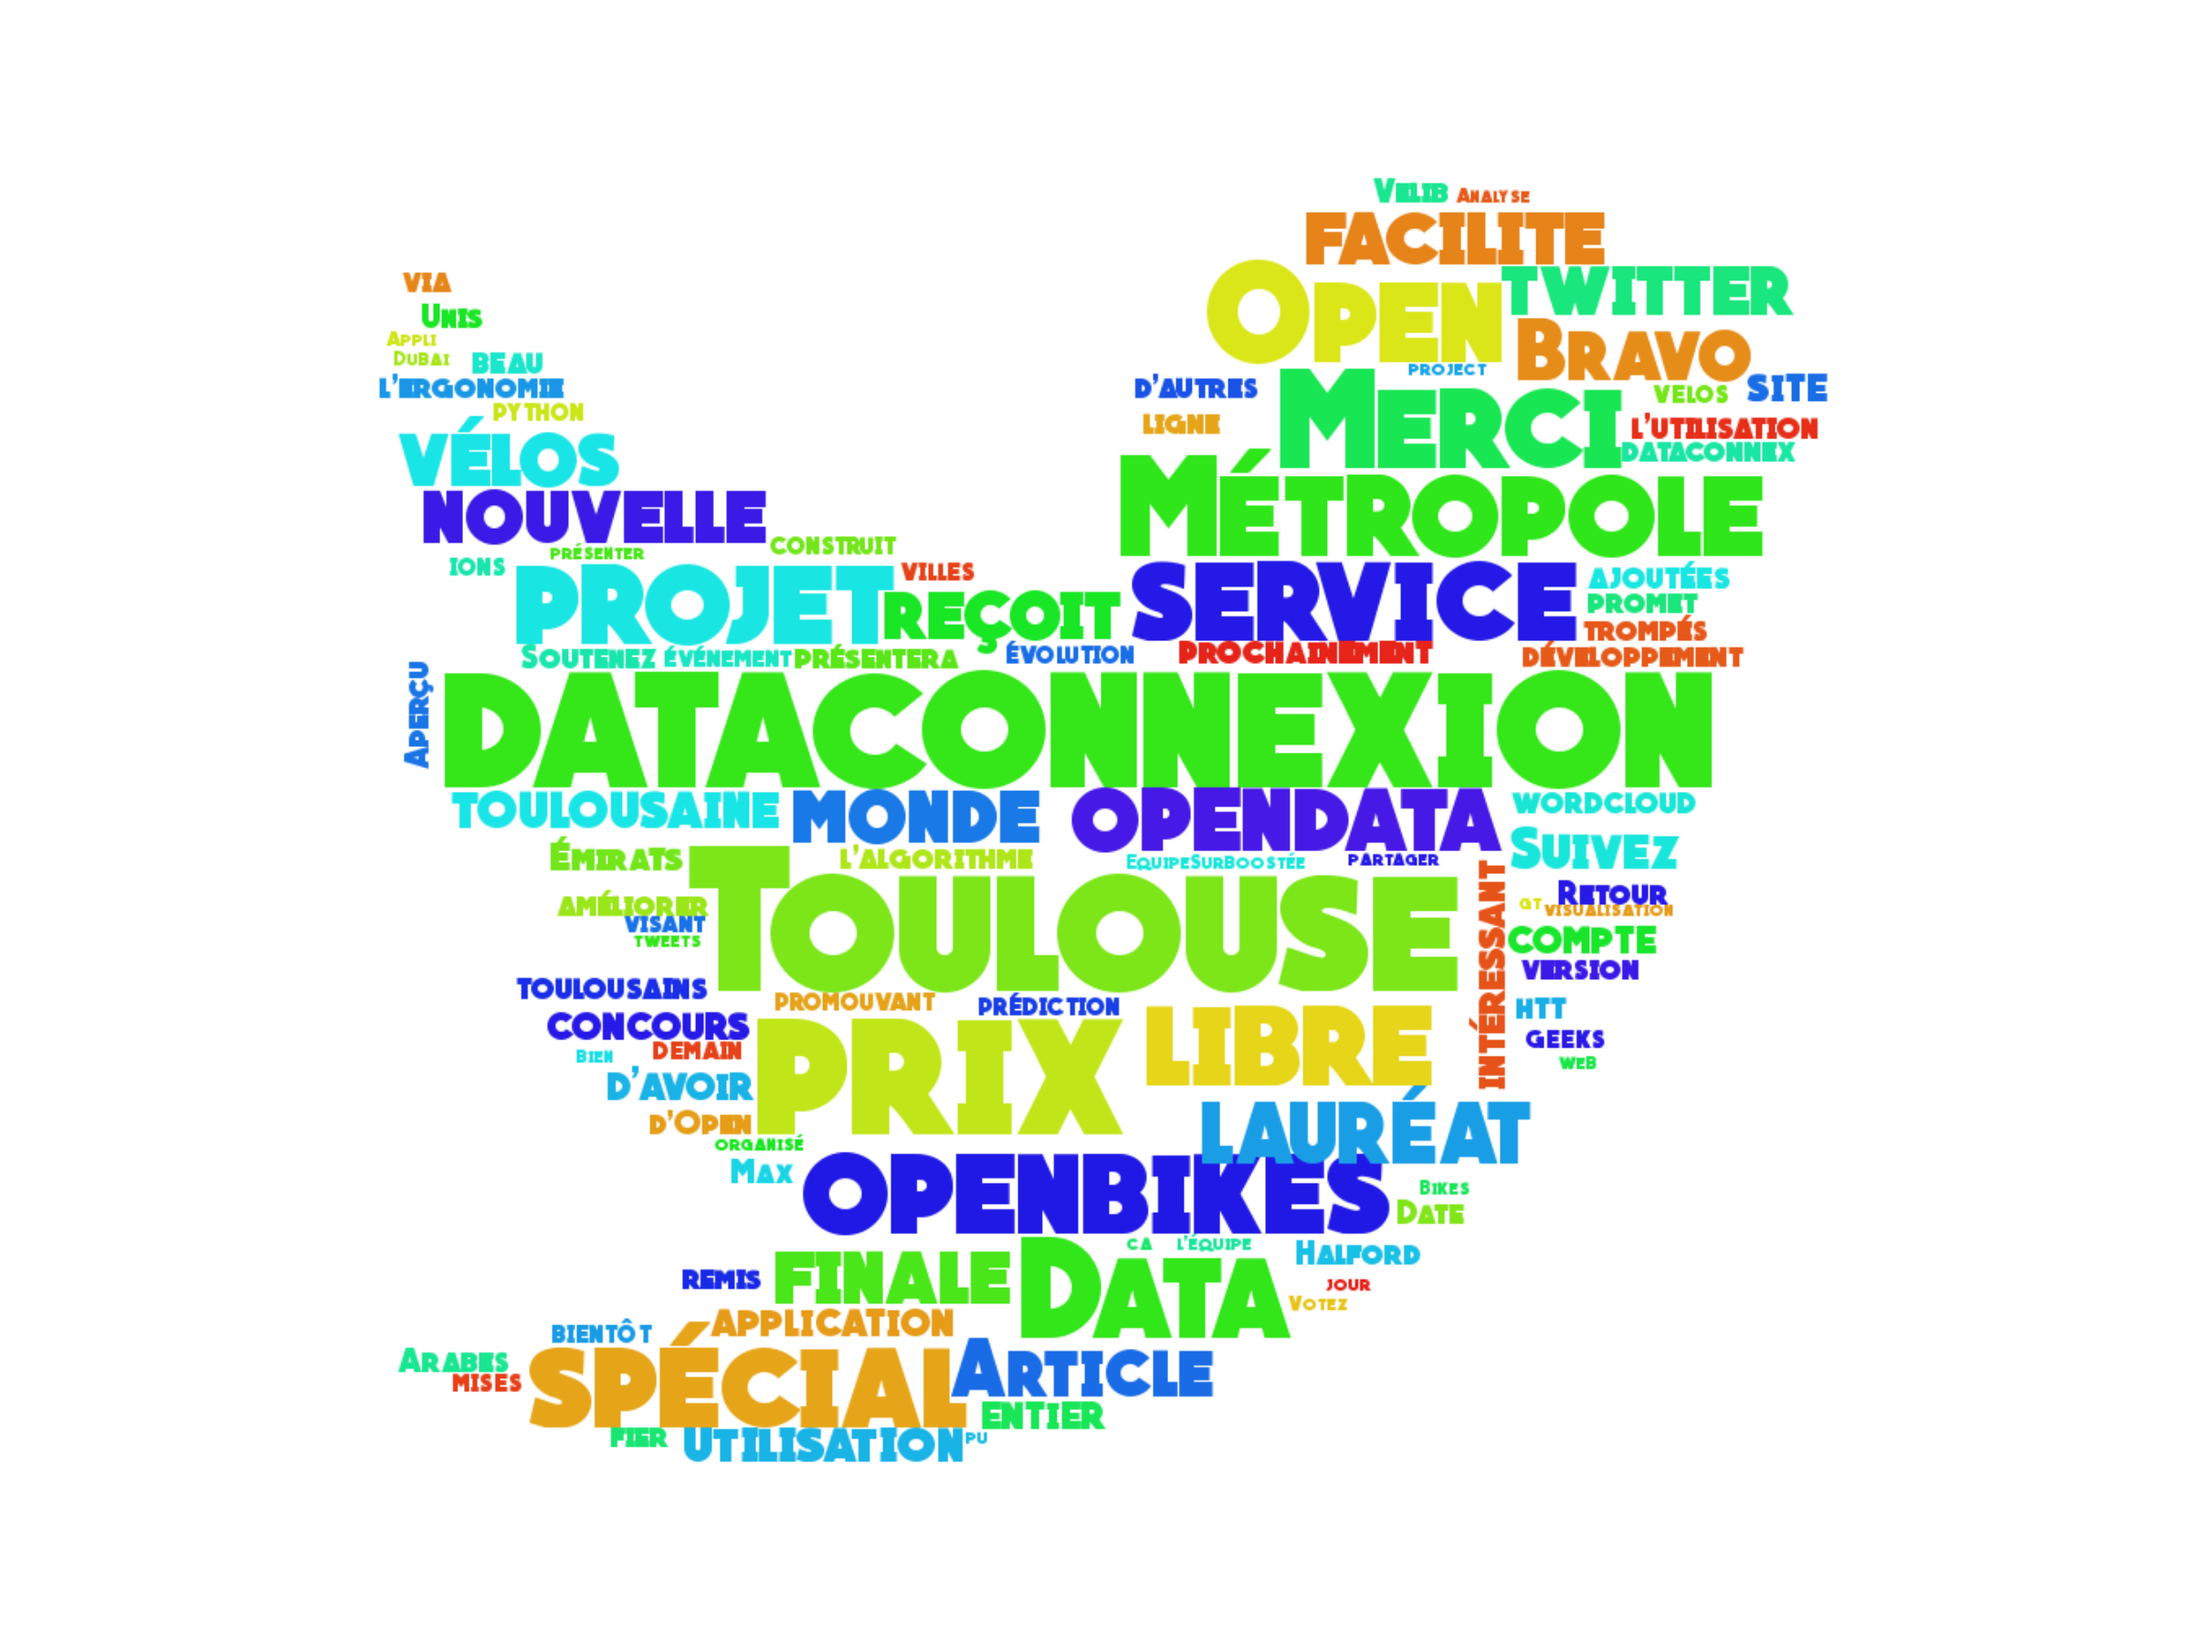
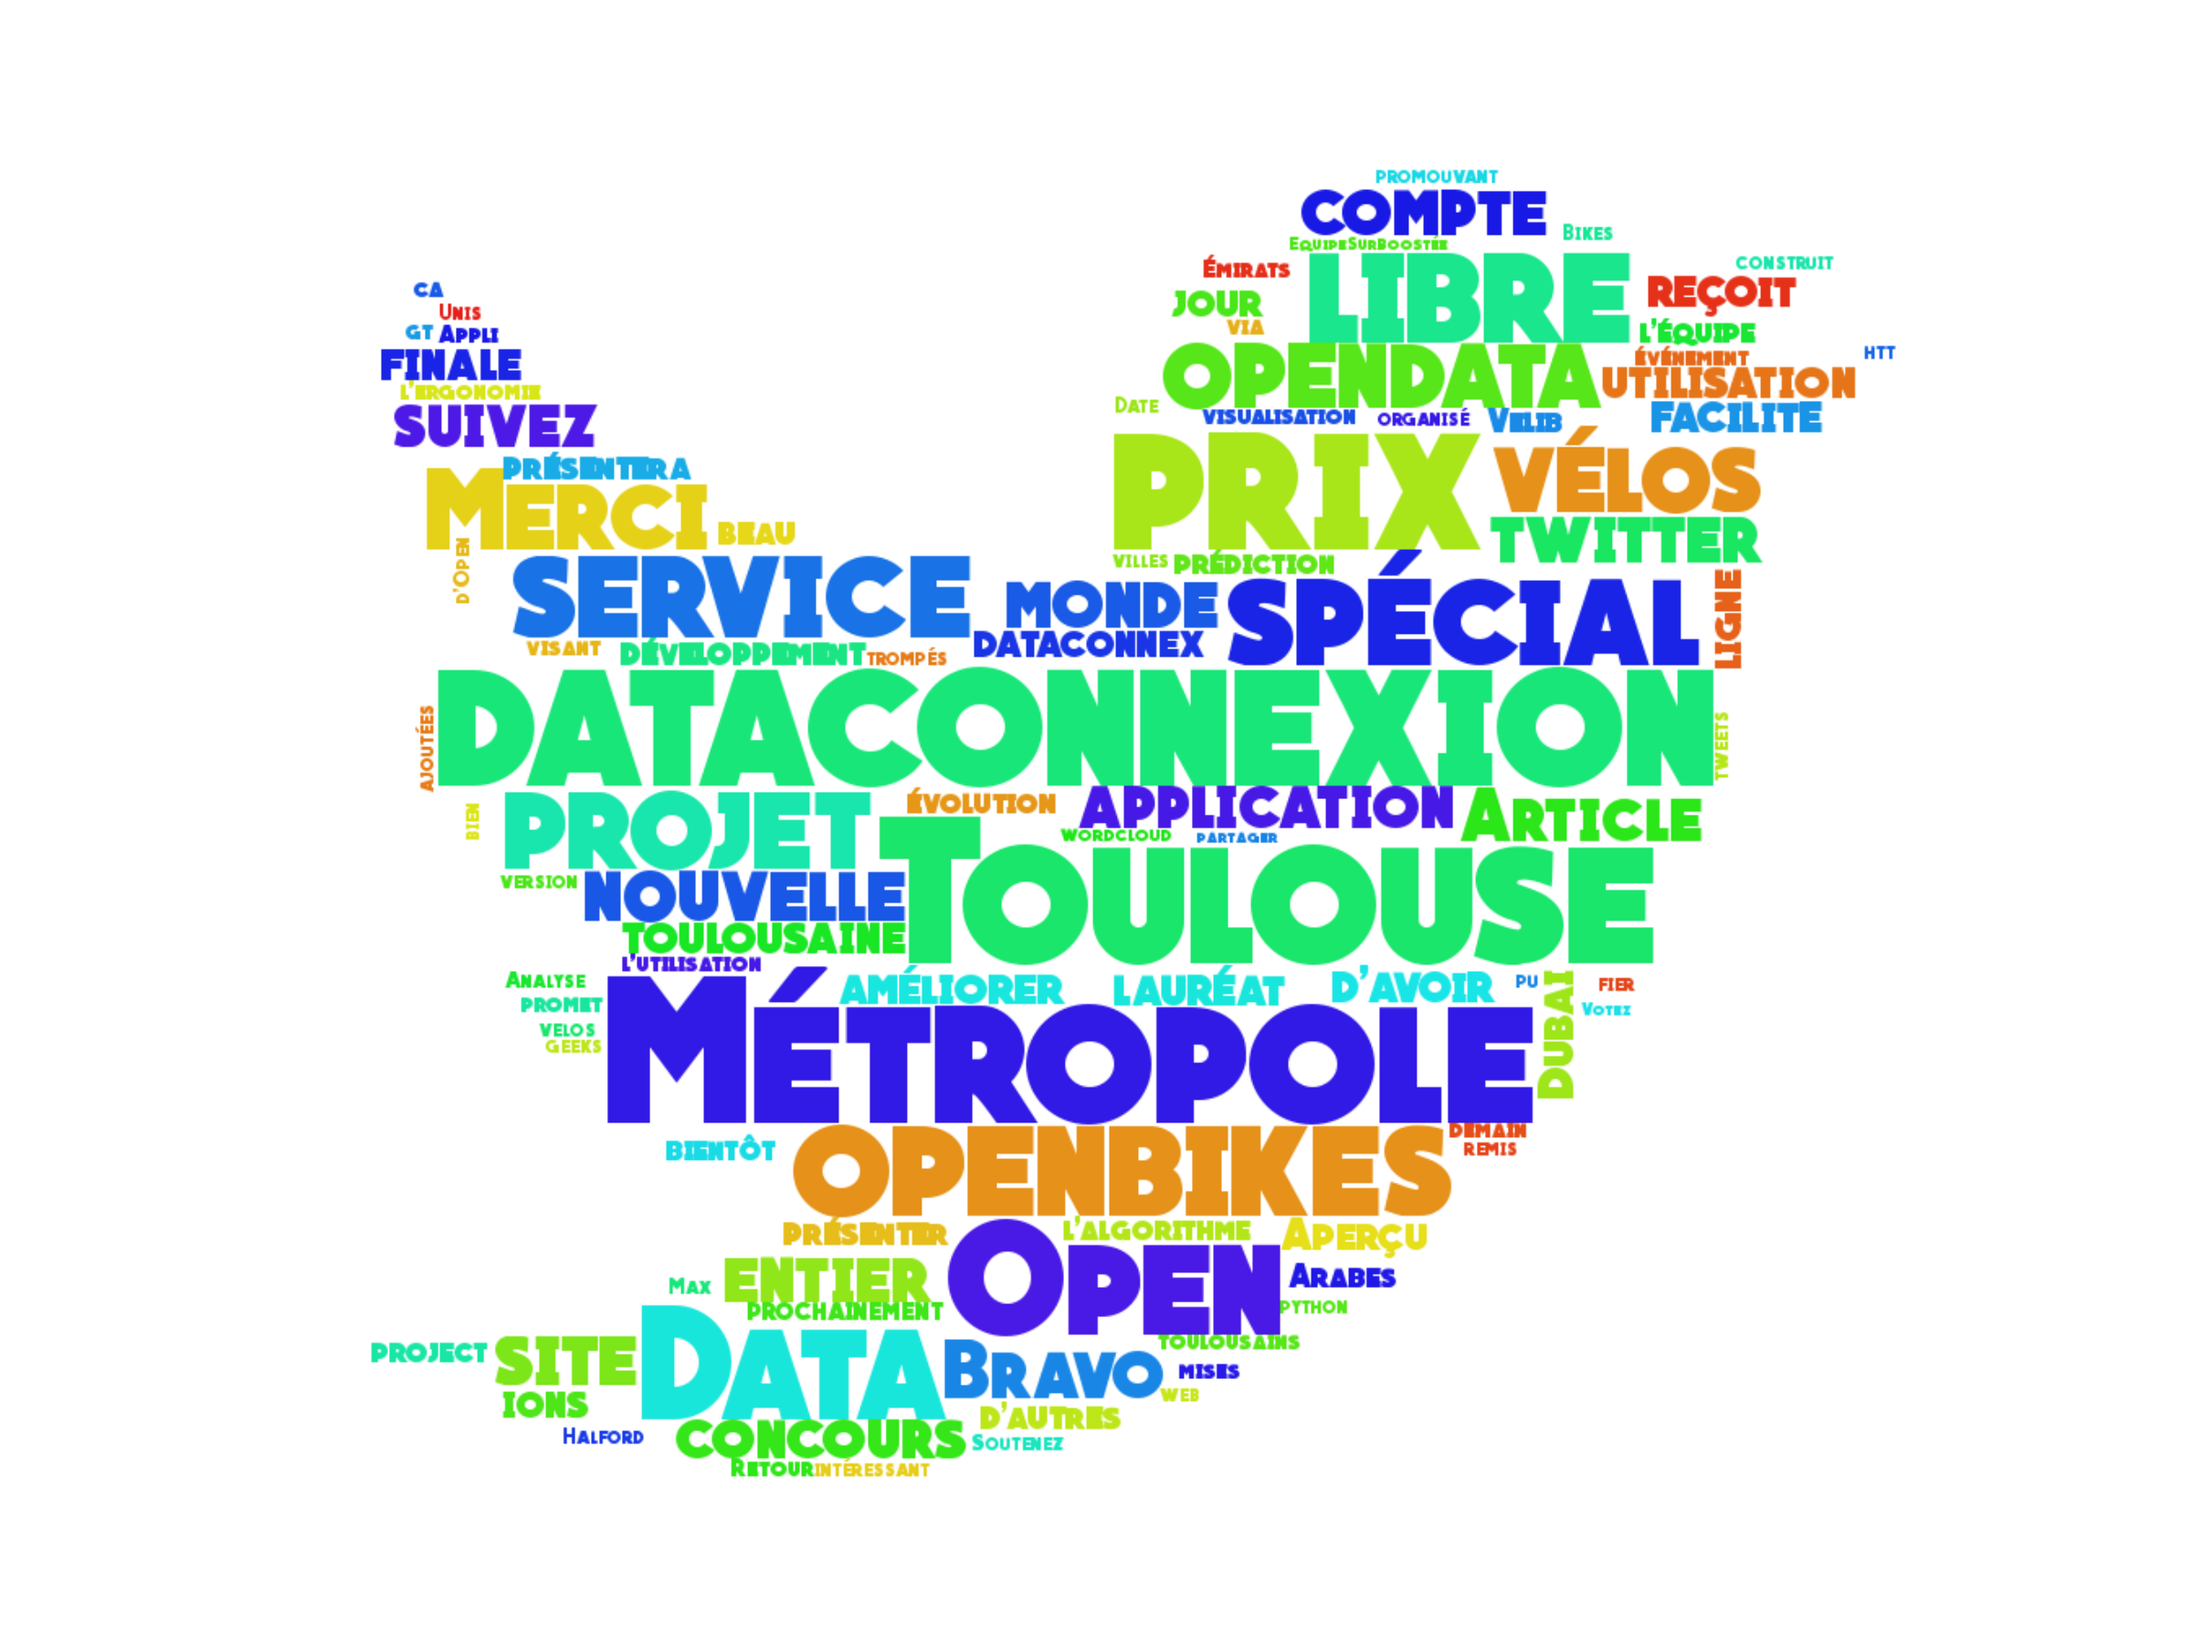
update README.md

Changed region(s): [[0.1562, 0.0933, 0.8438, 0.9022]]

diff --git a/timeline_wordcloud.py b/timeline_wordcloud.py
@@ -21,7 +21,6 @@ def get_user_tweets(keys, user, nb=100):
     auth.set_access_token(keys.access_token, keys.access_token_secret)
     api = tweepy.API(auth)
     public_tweets = api.user_timeline(id=user, count=nb)
-    print([tweet.text for tweet in public_tweets])
     return [tweet.text for tweet in public_tweets]
 
 
@@ -62,6 +61,6 @@ def wordcloud(data, user, mask='extras/twitter_mask.png', stopwords=stop_words, 
     plt.show()
 
 
-tweets = ' '.join(get_user_tweets(keys, user='OpenBikes_', nb=1000))
-cleaned_tweets = clean_tweets(tweets)
-wordcloud(data=cleaned_tweets, user='OpenBikes_', stopwords=stop_words)
+tweets = ' '.join(get_user_tweets(keys, user='fhollande', nb=1000))
+# cleaned_tweets = clean_tweets(tweets)
+# wordcloud(data=cleaned_tweets, user='fhollande', stopwords=stop_words)

diff --git a/README.md b/README.md
@@ -10,10 +10,10 @@ pip install -r requirements.txt
 
 You have to create a `keys.py` file containing Twitter API credentials
 ```python
-consumer_key = 'your_consumer_key'
-consumer_secret = 'your_consumer_secret'
-access_token = 'your_access_token'
-access_token_secret = 'your_access_token_secret'
+consumer_key = '<your_consumer_key>'
+consumer_secret = '<your_consumer_secret>'
+access_token = '<your_access_token>'
+access_token_secret = '<your_access_token_secret>'
 ```
 
 ## Launch script
